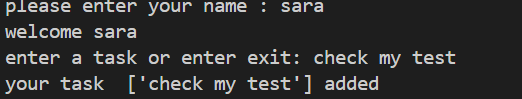
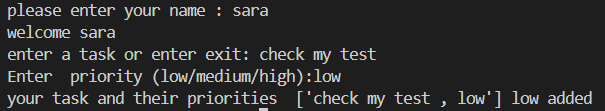
update_readme

Changed region(s): [[0.0, 0.4242, 0.9808, 1.0], [0.0, 0.0, 0.6437, 0.1818], [0.0, 0.2121, 0.2759, 0.3939]]

diff --git a/README.md b/README.md
@@ -111,6 +111,7 @@ python main.py
 4. If you choose `yes` enter a password from your `.env` file
 5. Enter your name
 6. Enter a task
+7. Enter a priority
 7. See all your saved tasks
 8. Enter another task or exit
 8. Your result is saved in `tasks.txt`
@@ -126,18 +127,21 @@ welcome sara
 
 enter a task or enter exit: check my test
 
-your task  ['check my test'] added
+Enter  priority (low/medium/high):low 
+
+your task  ['check my test, low'] added
 '
 enter a task or enter exit: exit
 
-check my test
+your tasks: 
+send my homework , low
 ```
 
 ## Screen shot
 ### Start program
-![start program](picture\pic1.png)
+![start program](pictures\pic1.png)
 ### Task
-![Task](picture\pic2.png)
+![Task](pictures\pic2.png)
 
 
 ### End of the program
